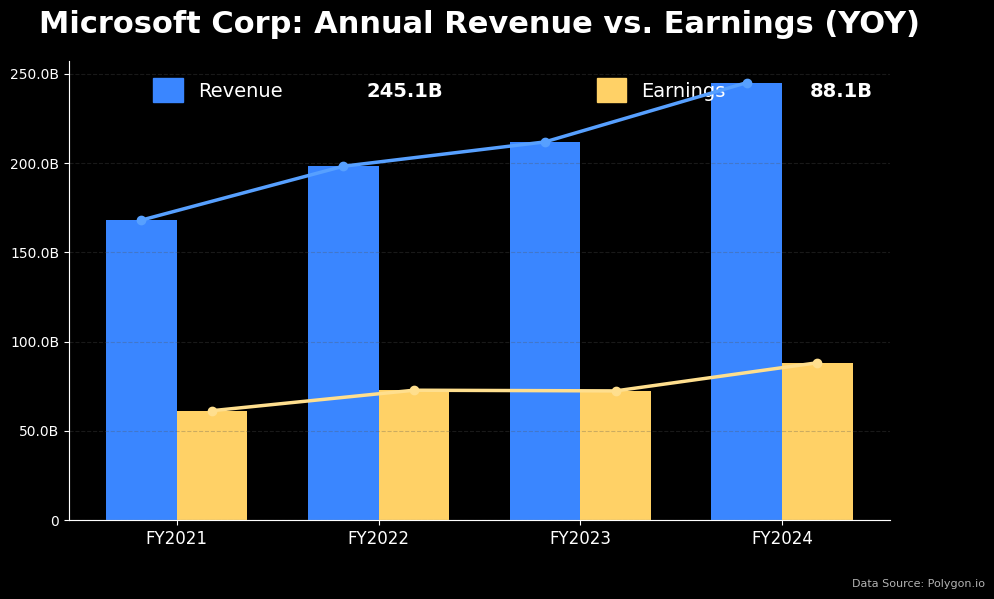
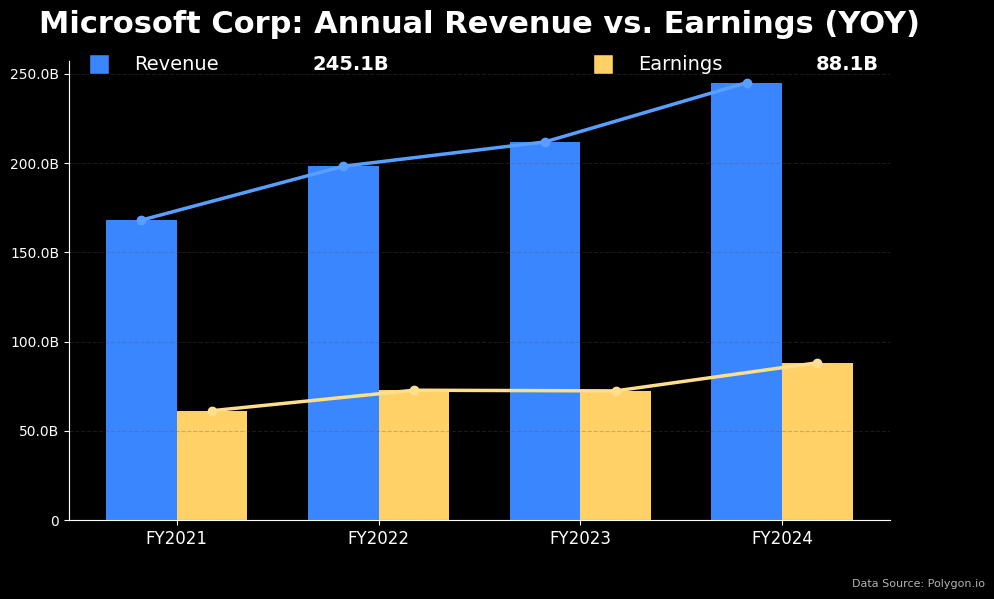
generate yearly done woohooooo

diff --git a/src/fundamentals_historical.py b/src/fundamentals_historical.py
@@ -230,10 +230,6 @@ def generate_yearly_performance_chart(ticker, years=4, dark_theme=True):
         revenue = [item["revenue"] for item in financial_data]
         earnings = [item["netIncome"] for item in financial_data]
         
-        print(f"DEBUG: Data for visualization - Labels: {year_labels}")
-        print(f"DEBUG: Data for visualization - Revenue: {[r/1e9 for r in revenue]}")
-        print(f"DEBUG: Data for visualization - Earnings: {[e/1e9 for e in earnings]}")
-        
         max_raw = max(max(revenue, default=0), max(earnings, default=0))
         if max_raw >= 1e12: 
             divisor, unit = 1e12, 'T'          # Trillions
@@ -248,10 +244,6 @@ def generate_yearly_performance_chart(ticker, years=4, dark_theme=True):
             
         revenue_scaled = [r / divisor for r in revenue]
         earnings_scaled = [e / divisor for e in earnings]
-        
-        print(f"INFO: Using {unit} as unit for chart with divisor {divisor}")
-        print(f"INFO: Scaled revenue values: {revenue_scaled}")
-        print(f"INFO: Scaled earnings values: {earnings_scaled}")
         
         # Set up the figure with theme
         if dark_theme:
@@ -268,7 +260,6 @@ def generate_yearly_performance_chart(ticker, years=4, dark_theme=True):
             grid_colour = '#cccccc'
         
         # Create the figure and axes
-        print("DEBUG: Creating figure and axes")
         fig, ax = plt.subplots(figsize=(10, 6))
         
         # Bar positions and width
@@ -276,12 +267,10 @@ def generate_yearly_performance_chart(ticker, years=4, dark_theme=True):
         x = np.arange(len(year_labels))
         
         # Create bars
-        print("DEBUG: Drawing bar charts")
         revenue_bars = ax.bar(x - bar_width/2, revenue_scaled, bar_width, color=bar_colours[0])
         earnings_bars = ax.bar(x + bar_width/2, earnings_scaled, bar_width, color=bar_colours[1])
         
         # Create a second axis for the trend lines that's aligned with the first
-        print("DEBUG: Setting up secondary axis for trend lines")
         ax2 = ax.twinx() 
         ax2.set_ylim(ax.get_ylim())  # Match y-axis limits between both axes
         ax2.spines['right'].set_visible(False)  
@@ -293,7 +282,6 @@ def generate_yearly_performance_chart(ticker, years=4, dark_theme=True):
         earnings_tops = earnings_scaled.copy()
         
         # Add lines for revenue and earnings trends with markers at the top of each bar
-        print("DEBUG: Drawing trend lines")
         revenue_line = ax2.plot(x - bar_width/2, revenue_tops, '-o', color=line_colours[0], 
                                linewidth=2.5, markersize=6, zorder=10)
         earnings_line = ax2.plot(x + bar_width/2, earnings_tops, '-o', color=line_colours[1], 
@@ -303,49 +291,54 @@ def generate_yearly_performance_chart(ticker, years=4, dark_theme=True):
         chart_title = f'{company_name}: Annual Revenue vs. Earnings (YOY)'
         ax.set_title(chart_title, fontsize=22, pad=20, color=text_colour, fontweight='bold')
         
-        # Create custom horizontal legend with spacing between elements
-        print("DEBUG: Creating custom legend")
+        # Latest values for the legend
         latest_revenue = revenue_scaled[-1]
         latest_earnings = earnings_scaled[-1]
         
-        # Revenue square + label + value
-        revenue_patch = plt.Rectangle((0, 0), 1, 1, color=bar_colours[0])
-        
-        # Earnings square + label + value
-        earnings_patch = plt.Rectangle((0, 0), 1, 1, color=bar_colours[1])
-        
-        # Create horizontal legend with proper spacing
+        # --- IMPROVED LEGEND WITHOUT OVERLAPPING ---
+        # Create a special legend at the top of the figure
+        # First, clear any auto-generated legends
+        if ax.get_legend():
+            ax.get_legend().remove()
+            
+        # Create custom legend elements
         from matplotlib.lines import Line2D
-        legend_items = [
-            # Revenue items
-            (revenue_patch, "Revenue"),
-            (Line2D([0], [0], color='none'), f"{latest_revenue:.1f}{unit}"),
+        
+        # Format revenue and earnings values
+        revenue_text = f"{latest_revenue:.1f}{unit}"
+        earnings_text = f"{latest_earnings:.1f}{unit}"
+        
+        # Calculate the width needed for each part 
+        # Using a fixed-width approach for the legend items
+        legend_elements = [
+            # Revenue box and label
+            Line2D([0], [0], color='none', marker='s', markersize=15, 
+                   markerfacecolor=bar_colours[0], label="Revenue"),
+            # Revenue value (with spacing)
+            Line2D([0], [0], color='none', marker=' ', markersize=1, 
+                   label=revenue_text),
             # Spacer
-            (Line2D([0], [0], color='none'), "     "),
-            # Earnings items
-            (earnings_patch, "Earnings"),
-            (Line2D([0], [0], color='none'), f"{latest_earnings:.1f}{unit}")
+            Line2D([0], [0], color='none', marker=' ', markersize=1, 
+                   label="          "),
+            # Earnings box and label
+            Line2D([0], [0], color='none', marker='s', markersize=15, 
+                   markerfacecolor=bar_colours[1], label="Earnings"),
+            # Earnings value with spacing
+            Line2D([0], [0], color='none', marker=' ', markersize=1, 
+                   label=earnings_text)
         ]
         
-        # Create the custom legend
-        legend = ax.legend(
-            [item[0] for item in legend_items],
-            [item[1] for item in legend_items],
-            loc='upper right',
-            frameon=False,
-            ncol=5,  # All items in one row
-            handlelength=1.5,
-            handleheight=1.5,
-            fontsize=14
-        )
+        # Place legend at the top of the plot
+        legend = ax.legend(handles=legend_elements, loc='upper center', 
+                          ncol=5, frameon=False, fontsize=14,
+                          bbox_to_anchor=(0.5, 1.05))
         
-        # Make values bold
+        # Make the value texts bold
         for i, text in enumerate(legend.get_texts()):
             if i == 1 or i == 4:  # Revenue and earnings values
                 text.set_fontweight('bold')
-        
+                
         # Set x-axis ticks and labels
-        print("DEBUG: Setting up axes and labels")
         ax.set_xticks(x)
         ax.set_xticklabels(year_labels, fontsize=12)
         
@@ -383,24 +376,16 @@ def generate_yearly_performance_chart(ticker, years=4, dark_theme=True):
             ax.text(0.99, 0.01, data_source, ha='right', va='bottom',
                    transform=fig.transFigure, fontsize=8, alpha=0.7, color=text_colour)
         
-        print("DEBUG: Applying tight layout")
         plt.tight_layout()
         
         # Save to buffer
-        print("DEBUG: Saving chart to buffer")
         buf = io.BytesIO()
         plt.savefig(buf, format='png', dpi=100, bbox_inches='tight')
         buf.seek(0)
         
         # Convert to base64
-        print("DEBUG: Converting to base64")
         img_str = base64.b64encode(buf.getvalue()).decode('utf-8')
         plt.close(fig)
-        
-        # Check if the image data is valid
-        print(f"DEBUG: Generated base64 string length: {len(img_str)}")
-        if len(img_str) < 1000:
-            print("WARNING: Generated image seems too small, might be corrupted")
         
         print("INFO: Chart generated successfully")
         return img_str
